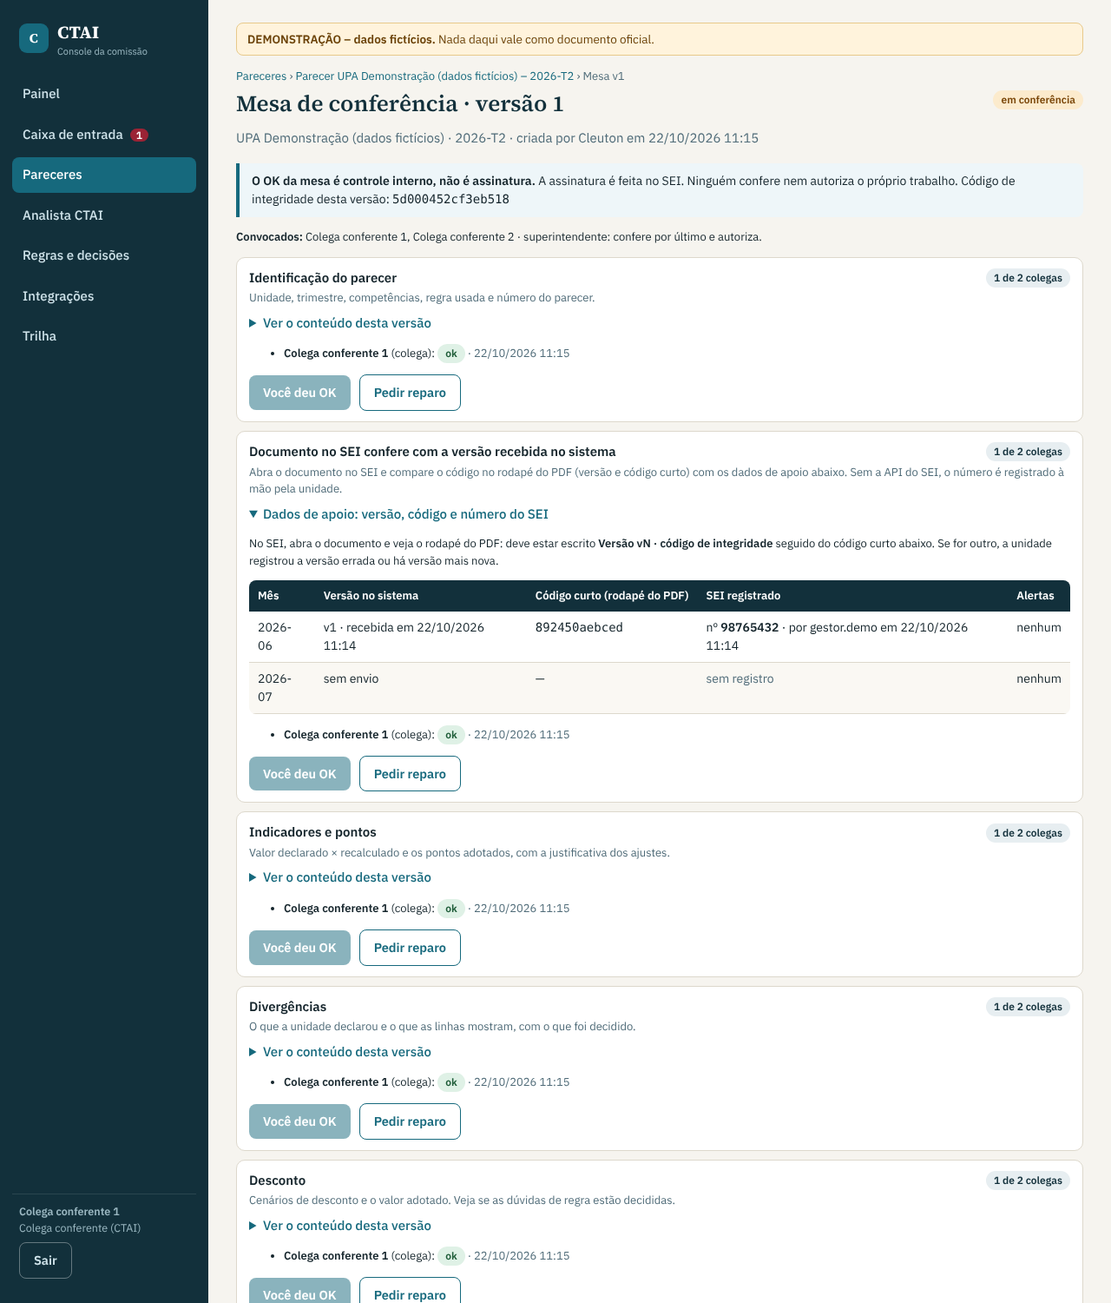
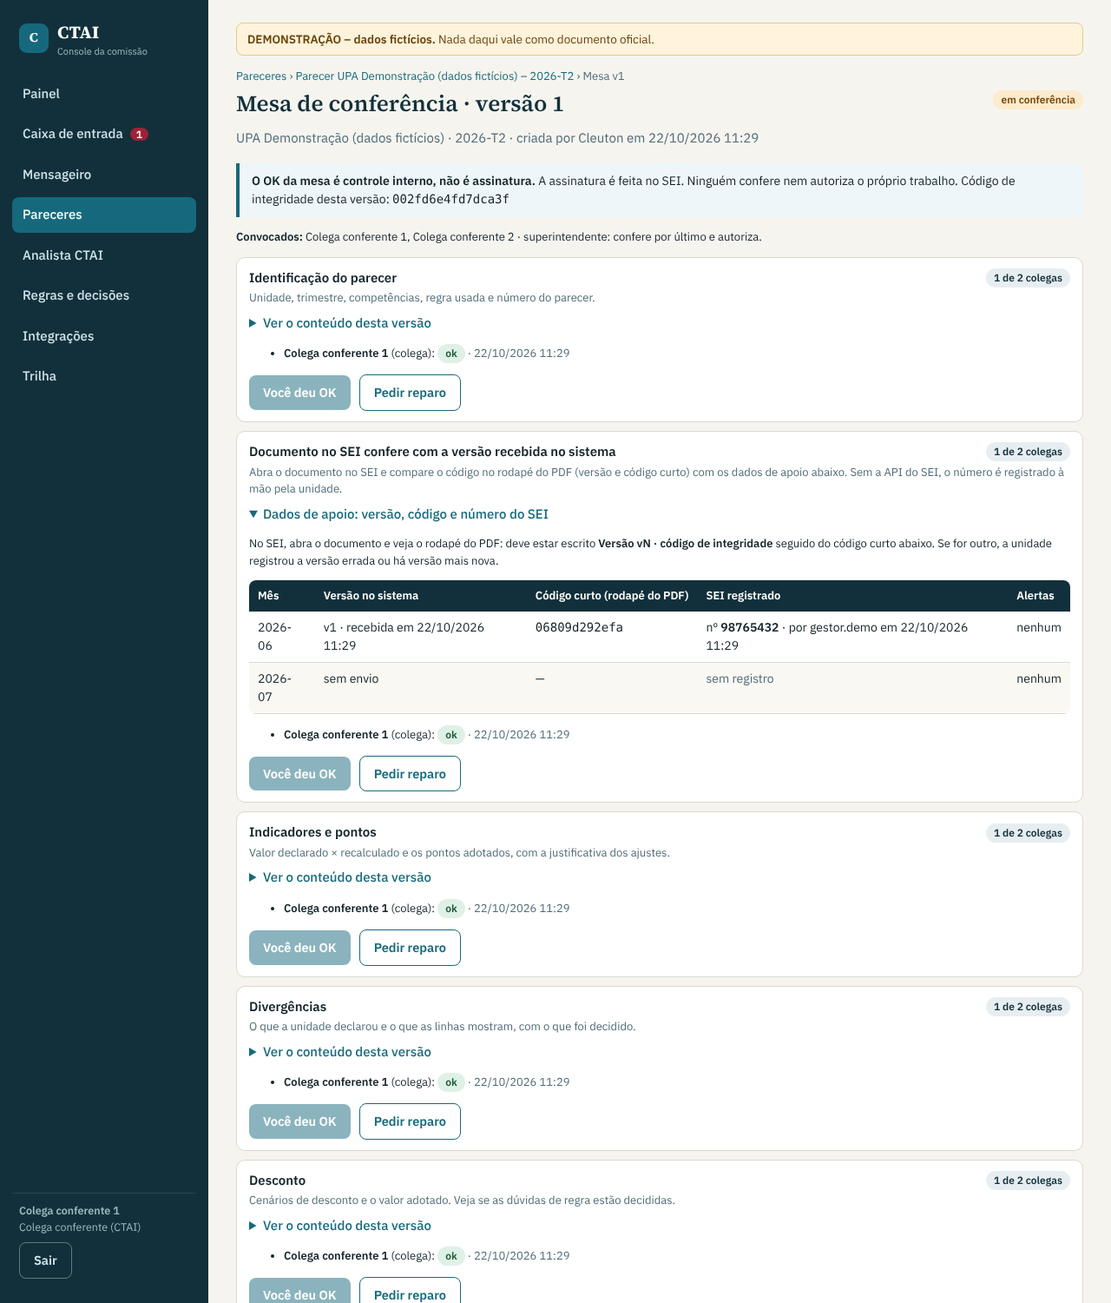
Mensageiro interno com anexos; aviso de dados não conectados nos quadros; título centralizado
Claude-Session: https://claude.ai/code/session_01TePQBrxAiH7ZoxMsBLHw5s

Changed region(s): [[0.0, 0.092, 0.1875, 0.276], [0.0312, 0.92, 0.125, 0.9507], [0.5, 0.46, 0.5625, 0.4907]]

diff --git a/public/js/ctai.js b/public/js/ctai.js
@@ -308,11 +308,12 @@
     const gravar = async () => { try { await api('PUT', base + '/modelo', lerTudo()); toast('Parecer salvo.'); recarregar(); } catch (e) { toast(e.message, true); } };
     const quadro = (q) => {
       const corpo = h('div');
-      const pintar = () => corpo.replaceChildren(h('table', { class: 'tabela peq' }, h('thead', null, h('tr', null, q.colunas.map((x) => h('th', null, x)), editavel ? h('th') : null)),
+      const av = q.id !== 'q3' ? h('div', { class: 'aviso-conexao', id: 'md-conectar-' + q.id }, aviso('atencao', 'Dados de produção não conectados. Este quadro será preenchido automaticamente quando a produção da unidade for conectada ou enviada; até lá, preencha à mão (opcional).')) : null;
+      const pintar = () => { if (av) av.style.display = quadros[q.id].length ? 'none' : ''; corpo.replaceChildren(h('table', { class: 'tabela peq' }, h('thead', null, h('tr', null, q.colunas.map((x) => h('th', null, x)), editavel ? h('th') : null)),
         h('tbody', null, quadros[q.id].map((lin, i) => h('tr', null, q.colunas.map((_, j) => h('td', null, editavel ? h('input', { type: 'text', value: lin[j] || '', style: 'width:100%', oninput: (ev) => { lin[j] = ev.target.value; } }) : (lin[j] || ''))), editavel ? h('td', null, h('button', { class: 'leve', onclick: () => { quadros[q.id].splice(i, 1); pintar(); } }, 'Remover')) : null)))),
-        editavel ? h('button', { class: 'sec', onclick: () => { quadros[q.id].push(q.colunas.map(() => '')); pintar(); } }, 'Adicionar linha') : null);
+        editavel ? h('button', { class: 'sec', onclick: () => { quadros[q.id].push(q.colunas.map(() => '')); pintar(); } }, 'Adicionar linha') : null); };
       pintar();
-      return h('div', { style: 'margin:12px 0' }, h('h4', null, q.titulo), corpo);
+      return h('div', { style: 'margin:12px 0' }, h('h4', null, q.titulo), av, corpo);
     };
     const revisar = async () => {
       troca(caixaRev, h('p', { class: 'mudo' }, 'Revisando: conferências locais, Analista, normas da unidade e busca externa… pode levar alguns segundos.'));
@@ -607,13 +608,13 @@
     const meta0 = await api('GET', '/api/meta').catch(() => null);
     window.__semPainel = !!(me0 && ['criador', 'colega'].includes(me0.usuario.perfil) && meta0 && !meta0.painelAnalista);
     window.__soGestao = me0 && ['superintendente', 'admin'].includes(me0.usuario.perfil) ? [{ href: '#/gestao', rotulo: 'Gestão CTAI' }] : [];
-    EU = await casca({ titulo: 'CTAI', subtitulo: 'Console da comissão', perfis: ['admin', 'criador', 'colega', 'superintendente'], itens: (window.__semPainel ? [] : [{ href: '#/', rotulo: 'Painel' }]).concat([{ href: '#/caixa', rotulo: 'Caixa de entrada' }, { href: '#/pareceres', rotulo: 'Pareceres' }, { href: '#/analista', rotulo: 'Analista CTAI' }, { href: '#/regras', rotulo: 'Regras e decisões' }, { href: '#/integracoes', rotulo: 'Integrações' }, { href: '#/trilha', rotulo: 'Trilha' }]).concat(window.__soGestao || []) });
+    EU = await casca({ titulo: 'CTAI', subtitulo: 'Console da comissão', perfis: ['admin', 'criador', 'colega', 'superintendente'], itens: (window.__semPainel ? [] : [{ href: '#/', rotulo: 'Painel' }]).concat([{ href: '#/caixa', rotulo: 'Caixa de entrada' }, { href: '#/mensageiro', rotulo: 'Mensageiro' }, { href: '#/pareceres', rotulo: 'Pareceres' }, { href: '#/analista', rotulo: 'Analista CTAI' }, { href: '#/regras', rotulo: 'Regras e decisões' }, { href: '#/integracoes', rotulo: 'Integrações' }, { href: '#/trilha', rotulo: 'Trilha' }]).concat(window.__soGestao || []) });
     if (!EU) return;
     window.__eu = EU;
-    window.CTAI_CAIXA.atualizarContador(); setInterval(() => window.CTAI_CAIXA.atualizarContador(), 60000);
+    window.CTAI_CAIXA.atualizarContador(); window.CTAI_MENSAGEIRO.atualizarContador(); setInterval(() => { window.CTAI_CAIXA.atualizarContador(); window.CTAI_MENSAGEIRO.atualizarContador(); }, 60000);
     if (ehAdmin()) { const nav = document.querySelector('.lateral .rodape'); nav.parentNode.insertBefore(h('a', { class: 'nav', href: '#/admin', 'data-h': '#/admin' }, 'Administração'), nav); }
     META = await api('GET', '/api/meta');
-    rotear([['/', window.__semPainel ? () => { location.replace('#/caixa'); } : painel], ['/c/:cid', competencia], ['/c/:cid/:aba', competencia], ['/pareceres', pareceres], ['/p/:id', parecer], ['/v/:id', mesa], ['/analista', analista], ['/analista/:aba', analista], ['/regras', regras], ['/regras/:contrato', regras], ['/integracoes', integracoes], ['/trilha', trilha], ['/admin', admin]].concat(window.CTAI_CAIXA.rotas).concat(eh('superintendente', 'admin') ? window.CTAI_GESTAO.rotas : []), (hash) => window.__marcarMenu && window.__marcarMenu(hash));
+    rotear([['/', window.__semPainel ? () => { location.replace('#/caixa'); } : painel], ['/c/:cid', competencia], ['/c/:cid/:aba', competencia], ['/pareceres', pareceres], ['/p/:id', parecer], ['/v/:id', mesa], ['/analista', analista], ['/analista/:aba', analista], ['/regras', regras], ['/regras/:contrato', regras], ['/integracoes', integracoes], ['/trilha', trilha], ['/admin', admin]].concat(window.CTAI_CAIXA.rotas).concat(window.CTAI_MENSAGEIRO.rotas).concat(eh('superintendente', 'admin') ? window.CTAI_GESTAO.rotas : []), (hash) => window.__marcarMenu && window.__marcarMenu(hash));
     if ('serviceWorker' in navigator) navigator.serviceWorker.register('/sw.js').catch(() => {});
   }
   iniciar();

diff --git a/public/js/mensageiro.js b/public/js/mensageiro.js
@@ -1,0 +1,56 @@
+(function () {
+  'use strict';
+  // Mensageiro da equipe: texto e anexos, uma conversa por pessoa.
+  const { h, api, toast, montar, aviso, fmt } = window.CTAI;
+  const ESTADO = { login: null };
+  const hora = (iso) => { try { return new Date(iso).toLocaleString('pt-BR', { day: '2-digit', month: '2-digit', hour: '2-digit', minute: '2-digit' }); } catch (_) { return ''; } };
+  const kb = (n) => (n > 1048576 ? (n / 1048576).toFixed(1) + ' MB' : Math.max(1, Math.round(n / 1024)) + ' KB');
+  const PERFIL = { admin: 'Administração', criador: 'Analista', colega: 'Conferente', superintendente: 'Superintendência' };
+
+  async function atualizarContador() {
+    try {
+      const c = await api('GET', '/api/mensageiro/contador');
+      const a = document.querySelector('.lateral a.nav[data-h="#/mensageiro"]'); if (!a) return;
+      let b = a.querySelector('.contador'); if (!b) { b = h('span', { class: 'contador', id: 'msg-contador', 'aria-label': 'mensagens não lidas' }); a.appendChild(b); }
+      b.textContent = c.naoLidas ? String(c.naoLidas) : ''; b.style.display = c.naoLidas ? '' : 'none';
+    } catch (_) { /* sem contador */ }
+  }
+
+  const lerBase64 = (arq) => new Promise((ok, no) => { const r = new FileReader(); r.onload = () => ok(String(r.result).split(',')[1] || ''); r.onerror = () => no(new Error('Não consegui ler o arquivo.')); r.readAsDataURL(arq); });
+
+  async function mensageiro() {
+    const [c] = await Promise.all([api('GET', '/api/mensageiro/contatos')]);
+    const col = h('div', { class: 'cartao msg-contatos', id: 'msg-contatos' });
+    const painel = h('div', { class: 'cartao', id: 'msg-painel' }, h('p', { class: 'mudo' }, 'Escolha uma pessoa para conversar.'));
+    const pintarContatos = () => col.replaceChildren(h('h3', null, 'Equipe'), ...c.contatos.map((p) => h('button', { type: 'button', class: 'ct' + (p.login === ESTADO.login ? ' ativo' : ''), 'data-login': p.login, onclick: () => abrir(p.login) },
+      h('span', null, p.nome, h('br'), h('small', null, (PERFIL[p.perfil] || p.perfil) + ' · ' + p.origem)), p.naoLidas ? h('span', { class: 'selo atencao' }, String(p.naoLidas)) : null)),
+      c.contatos.length ? null : h('p', { class: 'mudo peq' }, 'Nenhum outro usuário da equipe ainda.'),
+      h('p', { class: 'mudo peq', style: 'margin-top:10px' }, 'Usuários do Analista da diretoria entram aqui quando a ligação entre os dois sistemas for configurada.'));
+    async function abrir(login) {
+      ESTADO.login = login;
+      const d = await api('GET', '/api/mensageiro/conversa/' + encodeURIComponent(login));
+      const p = c.contatos.find((x) => x.login === login); if (p) p.naoLidas = 0;
+      pintarContatos(); atualizarContador();
+      const hist = h('div', { class: 'msg-hist', id: 'msg-hist' }, d.mensagens.length ? d.mensagens.map((m) => h('div', { class: 'msg-b' + (m.meu ? ' meu' : '') },
+        m.texto || null, m.anexo ? h('div', null, h('a', { href: '/api/mensageiro/anexo/' + m.anexo.id, download: m.anexo.nome }, '📎 ' + m.anexo.nome), ' ', h('small', null, kb(m.anexo.tamanho))) : null, h('small', null, hora(m.criado_em)))) : h('p', { class: 'mudo' }, 'Sem mensagens ainda.'));
+      const texto = h('textarea', { id: 'msg-texto', rows: 2, placeholder: 'Escreva a mensagem…', 'aria-label': 'Mensagem' });
+      const arq = h('input', { type: 'file', id: 'msg-arquivo', accept: '.pdf,.docx,.xlsx,.csv,.txt,.png,.jpg,.jpeg', 'aria-label': 'Anexar documento' });
+      const enviar = async () => {
+        try {
+          const corpo = { para: login, texto: texto.value };
+          const f = arq.files[0];
+          if (f) { if (f.size > 4 * 1024 * 1024) throw new Error('Arquivo acima de 4 MB.'); corpo.anexo = { nome: f.name, base64: await lerBase64(f) }; }
+          await api('POST', '/api/mensageiro/enviar', corpo); abrir(login);
+        } catch (e) { toast(e.message, true); }
+      };
+      texto.addEventListener('keydown', (ev) => { if (ev.key === 'Enter' && (ev.ctrlKey || ev.metaKey)) enviar(); });
+      painel.replaceChildren(h('h3', null, d.contato.nome), hist, h('div', { class: 'campo' }, texto), h('div', { class: 'linha' }, arq, h('button', { id: 'msg-enviar', onclick: enviar }, 'Enviar')),
+        h('p', { class: 'mudo peq' }, 'Anexos: PDF, Word, Excel, CSV, TXT, PNG ou JPG, até 4 MB. Não envie senha nem dado pessoal de paciente. Ctrl+Enter envia.'));
+      hist.scrollTop = hist.scrollHeight;
+    }
+    pintarContatos();
+    montar(h('div', { class: 'topo' }, h('div', null, h('h1', null, 'Mensageiro'), h('p', null, 'Conversa com a equipe, com texto e documentos anexos.'))), h('div', { class: 'msg-grade' }, col, painel));
+    atualizarContador();
+  }
+  window.CTAI_MENSAGEIRO = { rotas: [['/mensageiro', mensageiro]], atualizarContador };
+})();

diff --git a/server/mensageiro.js b/server/mensageiro.js
@@ -1,0 +1,60 @@
+'use strict';
+// Mensageiro interno da CTAI: texto e anexos entre pessoas da equipe. Cada pessoa vê só as conversas em que participa.
+// Não leva dado de unidade por padrão; o anexo fica no banco (limite de tamanho e tipos permitidos).
+const A = require('./auth');
+const trilha = require('./trilha');
+const { erro } = A;
+const MAX = 4 * 1024 * 1024;
+const TIPOS = { pdf: 'application/pdf', docx: 'application/vnd.openxmlformats-officedocument.wordprocessingml.document', xlsx: 'application/vnd.openxmlformats-officedocument.spreadsheetml.sheet', csv: 'text/csv', txt: 'text/plain', png: 'image/png', jpg: 'image/jpeg', jpeg: 'image/jpeg' };
+const agora = () => new Date().toISOString();
+
+function contatos(db, eu) {
+  const lista = db.all(`SELECT usuario_id, nome, login, perfil FROM usuarios WHERE ativo = 1 AND perfil IN ('admin','criador','colega','superintendente') AND usuario_id <> ? ORDER BY nome`, eu.usuario_id);
+  return lista.map((u) => {
+    const n = db.get('SELECT COUNT(*) AS n FROM msg WHERE de_id = ? AND para_id = ? AND lido_em IS NULL', u.usuario_id, eu.usuario_id).n;
+    const ult = db.get('SELECT criado_em FROM msg WHERE (de_id = ? AND para_id = ?) OR (de_id = ? AND para_id = ?) ORDER BY msg_id DESC LIMIT 1', u.usuario_id, eu.usuario_id, eu.usuario_id, u.usuario_id);
+    return Object.assign(u, { naoLidas: n, ultima: ult ? ult.criado_em : null, origem: 'CTAI' });
+  }).sort((a, b) => (b.naoLidas - a.naoLidas) || String(b.ultima || '').localeCompare(String(a.ultima || '')) || a.nome.localeCompare(b.nome));
+}
+const contador = (db, eu) => ({ naoLidas: db.get('SELECT COUNT(*) AS n FROM msg WHERE para_id = ? AND lido_em IS NULL', eu.usuario_id).n });
+
+function par(db, eu, login) {
+  const o = db.get("SELECT usuario_id, nome, login FROM usuarios WHERE login = ? AND ativo = 1 AND perfil IN ('admin','criador','colega','superintendente')", String(login || ''));
+  if (!o || o.usuario_id === eu.usuario_id) throw erro(404, 'Contato não encontrado.');
+  return o;
+}
+
+function conversa(db, eu, login) {
+  const o = par(db, eu, login);
+  db.run('UPDATE msg SET lido_em = ? WHERE de_id = ? AND para_id = ? AND lido_em IS NULL', agora(), o.usuario_id, eu.usuario_id);
+  const msgs = db.all('SELECT m.msg_id, m.de_id, m.texto, m.criado_em, m.anexo_id, a.nome AS anexo_nome, a.tamanho AS anexo_tamanho FROM msg m LEFT JOIN msg_anexos a ON a.anexo_id = m.anexo_id WHERE (m.de_id = ? AND m.para_id = ?) OR (m.de_id = ? AND m.para_id = ?) ORDER BY m.msg_id DESC LIMIT 200', eu.usuario_id, o.usuario_id, o.usuario_id, eu.usuario_id).reverse();
+  return { contato: o, mensagens: msgs.map((m) => ({ id: m.msg_id, meu: m.de_id === eu.usuario_id, texto: m.texto, criado_em: m.criado_em, anexo: m.anexo_id ? { id: m.anexo_id, nome: m.anexo_nome, tamanho: m.anexo_tamanho } : null })) };
+}
+
+function enviar(db, eu, dados) {
+  const o = par(db, eu, dados.para);
+  const texto = String(dados.texto || '').trim().slice(0, 4000);
+  let anexoId = null;
+  const a = dados.anexo;
+  if (a && a.base64) {
+    const nome = String(a.nome || 'arquivo').replace(/[\\/\r\n"]/g, '_').slice(0, 120);
+    const ext = (nome.split('.').pop() || '').toLowerCase();
+    if (!TIPOS[ext]) throw erro(400, 'Tipo de arquivo não permitido. Use: ' + Object.keys(TIPOS).join(', ') + '.');
+    const buf = Buffer.from(String(a.base64), 'base64');
+    if (!buf.length) throw erro(400, 'Arquivo vazio.');
+    if (buf.length > MAX) throw erro(413, 'Arquivo acima de 4 MB.');
+    anexoId = Number(db.run('INSERT INTO msg_anexos (nome, mime, tamanho, dados, criado_em) VALUES (?,?,?,?,?)', nome, TIPOS[ext], buf.length, buf, agora()).lastInsertRowid);
+  }
+  if (!texto && !anexoId) throw erro(400, 'Escreva uma mensagem ou anexe um arquivo.');
+  const id = Number(db.run('INSERT INTO msg (de_id, para_id, texto, anexo_id, criado_em) VALUES (?,?,?,?,?)', eu.usuario_id, o.usuario_id, texto, anexoId, agora()).lastInsertRowid);
+  if (anexoId) trilha.registrar(db, { usuario: eu.login, tabela: 'msg', registro: id, campo: 'anexo', valor_novo: 'enviado a ' + o.login });
+  return id;
+}
+
+function anexo(db, eu, id) {
+  const a = db.get('SELECT a.* FROM msg_anexos a JOIN msg m ON m.anexo_id = a.anexo_id WHERE a.anexo_id = ? AND (m.de_id = ? OR m.para_id = ?)', Number(id), eu.usuario_id, eu.usuario_id);
+  if (!a) throw erro(404, 'Anexo não encontrado.');
+  return a;
+}
+
+module.exports = { contatos, contador, conversa, enviar, anexo, TIPOS, MAX };

diff --git a/test/mensageiro.test.js b/test/mensageiro.test.js
@@ -1,0 +1,29 @@
+'use strict';
+const test = require('node:test');
+const assert = require('node:assert/strict');
+const { iniciar, cliente } = require('./helpers');
+let S, a, b, g;
+test.before(async () => { S = await iniciar(); a = cliente(S.base); b = cliente(S.base); g = cliente(S.base); await a.entrar('cleuton'); await b.entrar('colega1'); await g.entrar('gestor.demo'); });
+test.after(async () => { await S.fechar(); });
+
+test('texto e anexo entre a equipe; só os dois veem; unidade fica de fora', async () => {
+  assert.equal((await g.get('/api/mensageiro/contatos')).status, 403);
+  const e = await a.post('/api/mensageiro/enviar', { para: 'colega1', texto: 'Oi, segue o rascunho.', anexo: { nome: 'rascunho.pdf', base64: Buffer.from('%PDF-1.4 teste').toString('base64') } });
+  assert.equal(e.status, 200);
+  assert.equal((await b.get('/api/mensageiro/contador')).json.naoLidas, 1);
+  const c = (await b.get('/api/mensageiro/conversa/cleuton')).json;
+  assert.equal(c.mensagens.length, 1); assert.equal(c.mensagens[0].meu, false); assert.equal(c.mensagens[0].anexo.nome, 'rascunho.pdf');
+  assert.equal((await b.get('/api/mensageiro/contador')).json.naoLidas, 0);
+  const d = await b.get('/api/mensageiro/anexo/' + c.mensagens[0].anexo.id);
+  assert.equal(d.status, 200);
+  const outro = cliente(S.base); await outro.entrar('colega2');
+  assert.equal((await outro.get('/api/mensageiro/anexo/' + c.mensagens[0].anexo.id)).status, 404);
+});
+
+test('recusa tipo perigoso, arquivo grande, vazio e contato inválido', async () => {
+  assert.equal((await a.post('/api/mensageiro/enviar', { para: 'colega1', anexo: { nome: 'x.exe', base64: 'AAAA' } })).status, 400);
+  assert.equal((await a.post('/api/mensageiro/enviar', { para: 'colega1', anexo: { nome: 'x.pdf', base64: Buffer.alloc(4 * 1024 * 1024 + 10).toString('base64') } })).status, 413);
+  assert.equal((await a.post('/api/mensageiro/enviar', { para: 'colega1', texto: '  ' })).status, 400);
+  assert.equal((await a.post('/api/mensageiro/enviar', { para: 'cleuton', texto: 'eu' })).status, 404);
+  assert.equal((await a.post('/api/mensageiro/enviar', { para: 'gestor.demo', texto: 'x' })).status, 404);
+});

diff --git a/public/css/app.css b/public/css/app.css
@@ -83,7 +83,14 @@ dialog .corpo{padding:20px 22px}dialog .botoes{display:flex;gap:8px;justify-cont
 pre.sec{background:#f1eee6;padding:10px;border-radius:8px;overflow:auto;font-size:12.5px;white-space:pre-wrap}
 .login{min-height:100vh;display:grid;place-items:center;padding:20px;background:linear-gradient(160deg,var(--escuro),#1d4a5a)}
 .login .cartao{width:100%;max-width:400px;padding:28px}
-.login h1{margin-bottom:4px}
+.login h1{margin-bottom:4px;text-align:center}.login h1+p{text-align:center}
+.msg-grade{display:grid;grid-template-columns:260px 1fr;gap:14px;align-items:start}
+.msg-contatos .ct{display:flex;justify-content:space-between;align-items:center;gap:8px;width:100%;text-align:left;background:none;border:0;border-bottom:1px solid var(--borda);padding:9px 6px;color:inherit;cursor:pointer;border-radius:0}
+.msg-contatos .ct.ativo{background:#eef3f5}.msg-contatos .ct small{color:var(--mudo,#6b7280)}
+.msg-hist{display:flex;flex-direction:column;gap:8px;max-height:52vh;min-height:220px;overflow-y:auto;padding:4px}
+.msg-b{max-width:78%;padding:8px 11px;border-radius:10px;background:#eef0f2;font-size:14px;white-space:pre-wrap;word-break:break-word}
+.msg-b.meu{align-self:flex-end;background:#d9ecf0}.msg-b small{display:block;color:#6b7280;font-size:11px;margin-top:3px}
+@media(max-width:860px){.msg-grade{grid-template-columns:1fr}}
 .menu-mobile{display:none}
 @media(max-width:860px){
  .casca{grid-template-columns:1fr}

diff --git a/public/sw.js b/public/sw.js
@@ -1,6 +1,6 @@
 /* Service worker: guarda só os arquivos estáticos (telas, fontes, estilos). Nenhuma resposta da API é guardada. */
-const VERSAO = 'ctai-v11';
-const ESTATICOS = ['/', '/unidade', '/ctai', '/css/app.css', '/js/core.js', '/js/login.js', '/js/unidade.js', '/js/ctai.js', '/js/usuario-form.js', '/js/rack-ia.js', '/js/gestao.js', '/js/caixa.js', '/icons/icon.svg'];
+const VERSAO = 'ctai-v12';
+const ESTATICOS = ['/', '/unidade', '/ctai', '/css/app.css', '/js/core.js', '/js/login.js', '/js/unidade.js', '/js/ctai.js', '/js/usuario-form.js', '/js/rack-ia.js', '/js/gestao.js', '/js/caixa.js', '/js/mensageiro.js', '/icons/icon.svg'];
 self.addEventListener('install', (e) => { e.waitUntil(caches.open(VERSAO).then((c) => c.addAll(ESTATICOS).catch(() => {})).then(() => self.skipWaiting())); });
 self.addEventListener('activate', (e) => { e.waitUntil(caches.keys().then((ks) => Promise.all(ks.filter((k) => k !== VERSAO).map((k) => caches.delete(k)))).then(() => self.clients.claim())); });
 self.addEventListener('fetch', (e) => {

diff --git a/server/db.js b/server/db.js
@@ -176,6 +176,14 @@ CREATE TABLE IF NOT EXISTS ia_chaves (
 CREATE TABLE IF NOT EXISTS ia_chave_uso (
   chave_id INTEGER NOT NULL, mes TEXT NOT NULL, chamadas INTEGER NOT NULL DEFAULT 0, falhas INTEGER NOT NULL DEFAULT 0, ultimo_uso TEXT, PRIMARY KEY (chave_id, mes)
 );
+CREATE TABLE IF NOT EXISTS msg_anexos (
+  anexo_id INTEGER PRIMARY KEY AUTOINCREMENT, nome TEXT NOT NULL, mime TEXT NOT NULL, tamanho INTEGER NOT NULL, dados BLOB NOT NULL, criado_em TEXT NOT NULL
+);
+CREATE TABLE IF NOT EXISTS msg (
+  msg_id INTEGER PRIMARY KEY AUTOINCREMENT, de_id INTEGER NOT NULL, para_id INTEGER NOT NULL, texto TEXT NOT NULL DEFAULT '', anexo_id INTEGER, criado_em TEXT NOT NULL, lido_em TEXT
+);
+CREATE INDEX IF NOT EXISTS ix_msg_par ON msg (para_id, lido_em);
+CREATE INDEX IF NOT EXISTS ix_msg_de ON msg (de_id, para_id);
 CREATE TABLE IF NOT EXISTS ia_uso (
   provedor TEXT NOT NULL, mes TEXT NOT NULL, chamadas INTEGER NOT NULL DEFAULT 0, falhas INTEGER NOT NULL DEFAULT 0, ultimo_uso TEXT, PRIMARY KEY (provedor, mes)
 );

diff --git a/server/routes/mensageiro.js b/server/routes/mensageiro.js
@@ -1,0 +1,19 @@
+'use strict';
+const express = require('express');
+const A = require('../auth');
+const MS = require('../mensageiro');
+
+module.exports = (db) => {
+  const r = express.Router();
+  r.use(A.exigir(db, A.PERFIS_CTAI));
+  r.get('/contatos', (req, res) => res.json({ contatos: MS.contatos(db, req.usuario) }));
+  r.get('/contador', (req, res) => res.json(MS.contador(db, req.usuario)));
+  r.get('/conversa/:login', (req, res) => res.json(MS.conversa(db, req.usuario, req.params.login)));
+  r.post('/enviar', (req, res) => res.json({ msg_id: MS.enviar(db, req.usuario, req.body || {}) }));
+  r.get('/anexo/:id', (req, res) => {
+    const a = MS.anexo(db, req.usuario, req.params.id);
+    res.set({ 'content-type': a.mime, 'content-disposition': 'attachment; filename="' + a.nome.replace(/[^\w.\- ]/g, '_') + '"', 'x-content-type-options': 'nosniff', 'cache-control': 'private, no-store' });
+    res.send(Buffer.from(a.dados));
+  });
+  return r;
+};

diff --git a/test/e2e/run.js b/test/e2e/run.js
@@ -146,6 +146,7 @@ let base;
     assert.match(await cri.inputValue('#md-introducao'), /Contrato de Gestão n\.º/);
     await cri.fill('#md-financeiro', 'Informações financeiras acostadas ao processo (demonstração).'); await cri.click('#md-salvar'); await cri.waitForSelector('#md-salvar'); await cri.waitForTimeout(500);
     await cri.click('#md-revisar'); await cri.waitForSelector('text=Busca externa (normas e jurisprudência)');
+    assert.ok(await cri.isVisible('#md-conectar-q1'), 'aviso de dados não conectados no Quadro 01');
     log('parecer: modelo padrão preenchido, editado e revisão completa rodada');
     const pid = Number(cri.url().split('#/p/')[1]);
     await cri.click('button:has-text("Ajustar") >> nth=0'); await cri.waitForSelector('dialog[open]');

diff --git a/server/app.js b/server/app.js
@@ -33,6 +33,7 @@ function criarApp(db) {
   app.use('/api/unidade', require('./routes/unidade')(db));
   app.use('/api/ctai', require('./routes/ctai')(db));
   app.use('/api/caixa', require('./routes/caixa')(db));
+  app.use('/api/mensageiro', require('./routes/mensageiro')(db));
   app.use('/api/analista', require('./routes/analista')(db));
   app.use('/api/integracoes', require('./routes/integracoes')(db));
   app.use('/api/admin', require('./routes/admin')(db));

diff --git a/public/ctai.html b/public/ctai.html
@@ -16,6 +16,7 @@
 <script src="/js/rack-ia.js"></script>
 <script src="/js/gestao.js"></script>
 <script src="/js/caixa.js"></script>
+<script src="/js/mensageiro.js"></script>
 <script src="/js/ctai.js"></script>
 </body>
 </html>

diff --git a/docs/STATUS.md b/docs/STATUS.md
@@ -84,3 +84,9 @@ Números: `npm test` = **113 testes, 0 falhas**. `npm run e2e` = fluxo completo 
 - Aba Pareceres: novo parecer já nasce com o **modelo padrão** (texto-padrão com unidade, OSS, contrato, período, prazos, IGQ e desconto do trimestre) ou **em branco**. Seções 1–10 e Quadros 01/02/03 do parecer real (templates/parecer-ctai-v1.json, só texto fictício). Quadro 03 vem preenchido pelos pontos do período; Quadros 01/02 (produção) são digitados.
 - **Revisão completa**: conferências locais (seção vazia, campo pendente, nome de outra unidade, mês fora do período, texto × desconto/quadro), Analista (regras + IA mascarada, com as normas da unidade) e busca externa (Gemini + Google Search, com fontes). Para a busca só saem as citações de lei/decreto e os nomes dos indicadores.
 - Congelar, conferência, autorização, PDF e número do SEI seguem como antes. Ofício e despacho ficam para depois.
+
+## Mensageiro e ajustes — 22/10/2026
+- Console CTAI: item **Mensageiro** (texto e anexos PDF/Word/Excel/CSV/TXT/PNG/JPG até 4 MB, conversa 1:1 entre a equipe, contador de não lidas). Só a equipe CTAI; a unidade não acessa.
+- **Ligação com os usuários do Analista da diretoria: pendente.** O servidor daquele app (Apps Script) não está no repositório; precisa da URL da API e de uma credencial de serviço, ou de uma lista de usuários.
+- Quadros 01/02 mostram "Dados de produção não conectados" enquanto vazios; o aviso some quando entram linhas.
+- Título "Sistema CTAI" centralizado na entrada.
